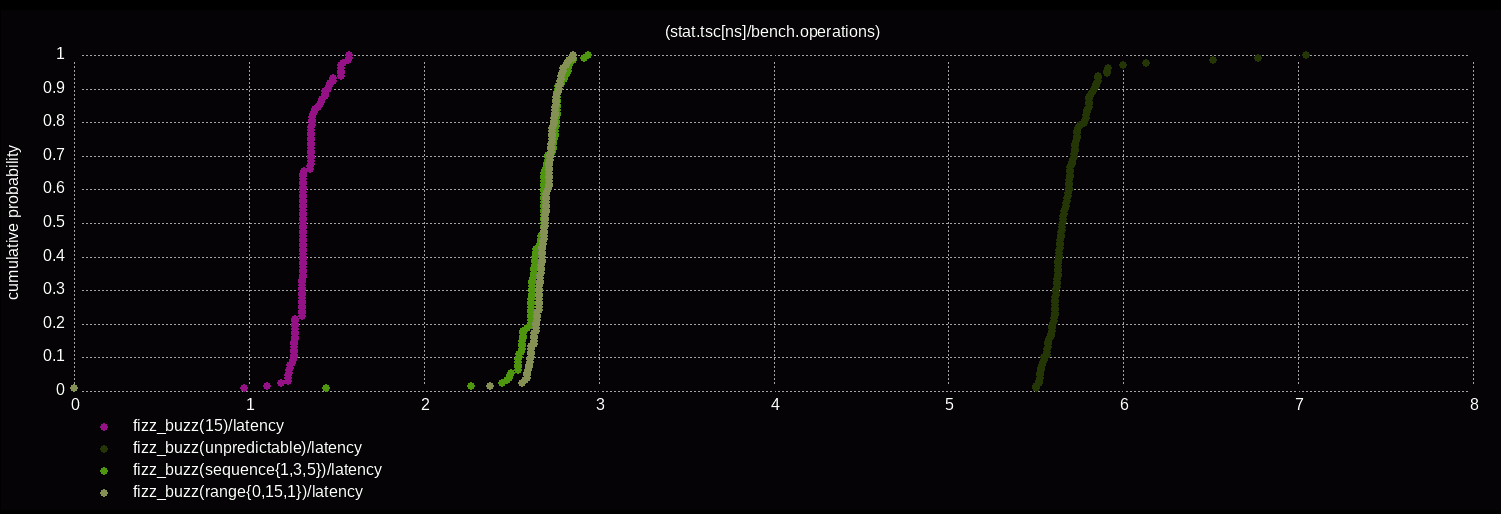
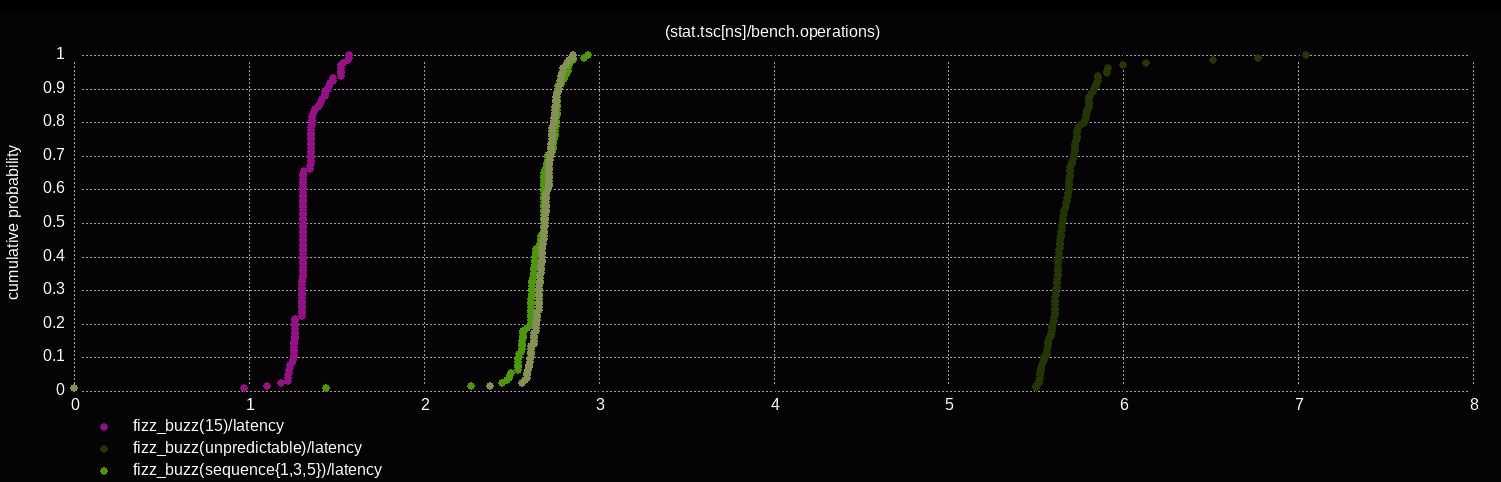
cppcon-2025

diff --git a/cppcon-2025/index.html b/cppcon-2025/index.html
@@ -1,6 +1,4 @@
 <!--
-ecdf - for gnuplto remove fizz_buzz/range
-fix cpu_time to process_time
 update studies picture to ecdf
 fix idiv latency
 tune vs non-tuned
@@ -444,7 +442,7 @@ pyperf system tune # pip install pyperf
 
 # Affinity / Priority
 taskset -c <cpu numbers> ...
-nice -n -20 ...
+nice -n -20 ... # chrt -f 99 ...
 
 
 # Non-uniform memory access (NUMA) # lstopo
@@ -1006,7 +1004,7 @@ user@server:~# PERF_IO_PLOT_TERM="dumb ansi" ./a.out # tty
 <!-- .element: style="font-size:14px; margin: 0 0;" -->
 
 <p align="left">
-<img src="images/ecdf2.png" style="width: 45%; background:none; border:none; box-shadow:none; margin: 0 0;" />
+<img src="images/ecdf3.png" style="width: 45%; background:none; border:none; box-shadow:none; margin: 0 0;" />
 </p>
 
 ```cpp
@@ -2358,7 +2356,7 @@ auto analyze = [](auto fn, auto... ts) {
 <!-- .element: style="text-align:left;font-size:13px;" -->
 
 <p align="left">
-&nbsp; <img src="images/gh_html.png" style="width: 85%; background:none; border:none; box-shadow:none;" />
+&nbsp; <img src="images/gh_html.png" style="width: 75%; background:none; border:none; box-shadow:none;" />
 </p>
 <!-- .element: style="margin: -30px 0;" -->
 
